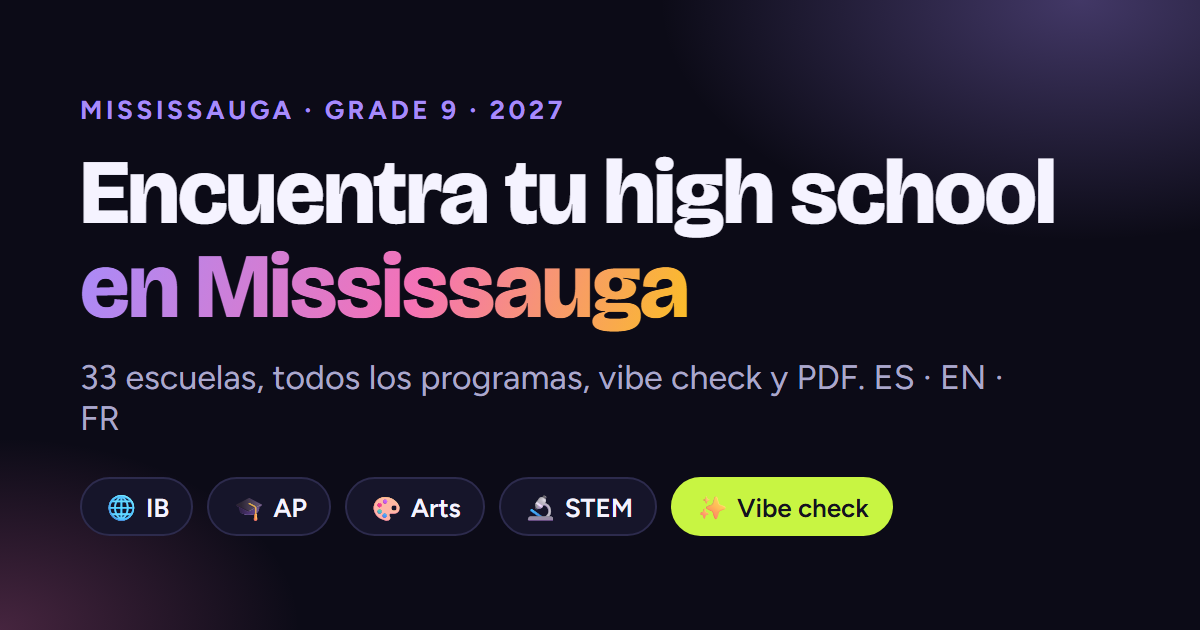
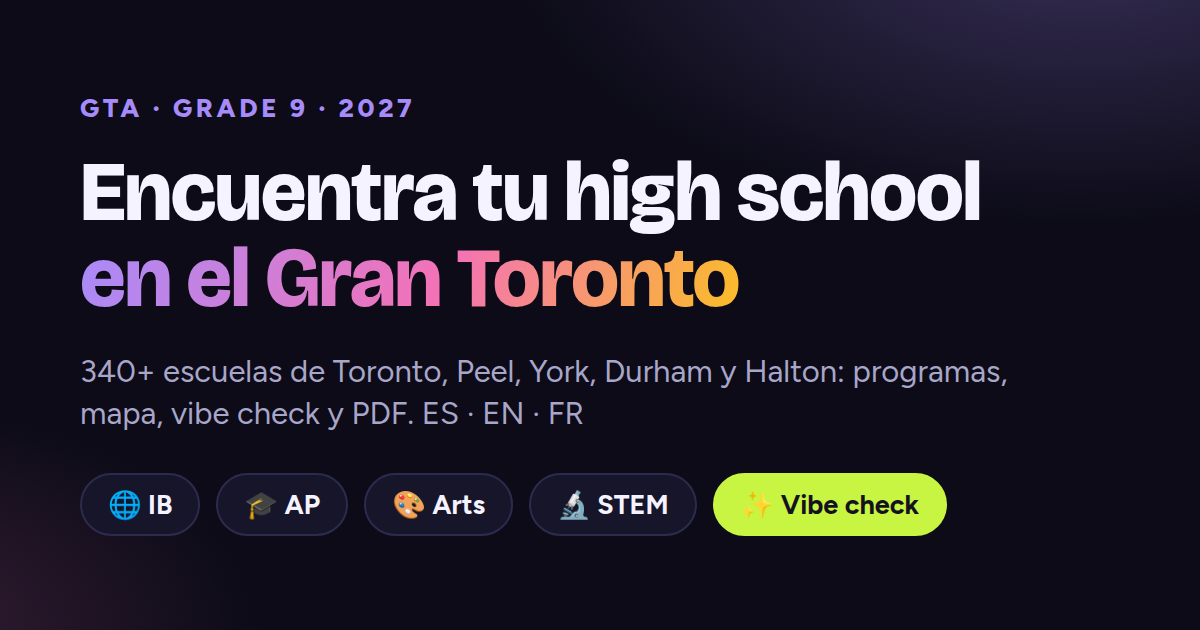
GTA social image, honest compatible crawler user agent

diff --git a/scripts/og/og.html b/scripts/og/og.html
@@ -1,0 +1,23 @@
+<!doctype html><meta charset="utf-8">
+<!-- Source of assets/og-image.png (1200x630). Render with Playwright/Chromium: see scripts/og/README.md -->
+<style>
+@font-face{font-family:Bricolage;src:url(../../assets/fonts/bricolage-latin.woff2);font-weight:200 800}
+@font-face{font-family:Figtree;src:url(../../assets/fonts/figtree-latin.woff2);font-weight:300 900}
+html,body{margin:0;width:1200px;height:630px;background:#0C0B17;font-family:Figtree,sans-serif;color:#F5F3FF;overflow:hidden}
+.bg{position:absolute;inset:0;background:radial-gradient(60rem 30rem at 90% -10%,rgba(167,139,250,.28),transparent 60%),radial-gradient(40rem 24rem at -10% 100%,rgba(244,114,182,.18),transparent 60%)}
+.w{position:absolute;left:80px;top:92px;right:80px}
+.eyebrow{font:800 26px Figtree;letter-spacing:.14em;color:#A78BFA}
+h1{font:800 84px/1.02 Bricolage;margin:26px 0 0;letter-spacing:-.02em}
+.grad{background:linear-gradient(110deg,#A78BFA,#F472B6 55%,#FBBF24);-webkit-background-clip:text;background-clip:text;color:transparent}
+p{font:400 31px/1.35 Figtree;color:#A8A6C9;margin:30px 0 0;max-width:980px}
+.chips{display:flex;gap:16px;margin-top:38px}
+.chip{border:2px solid #2D2B4D;background:#16152A;border-radius:999px;padding:13px 26px;font:700 27px Figtree}
+.cta{background:#C8F542;color:#14121F;border-color:#C8F542}
+</style>
+<div class="bg"></div>
+<div class="w">
+  <div class="eyebrow">GTA · GRADE 9 · 2027</div>
+  <h1>Encuentra tu high school<br><span class="grad">en el Gran Toronto</span></h1>
+  <p>340+ escuelas de Toronto, Peel, York, Durham y Halton: programas, mapa, vibe check y PDF. ES · EN · FR</p>
+  <div class="chips"><span class="chip">🌐 IB</span><span class="chip">🎓 AP</span><span class="chip">🎨 Arts</span><span class="chip">🔬 STEM</span><span class="chip cta">✨ Vibe check</span></div>
+</div>

diff --git a/scripts/og/README.md b/scripts/og/README.md
@@ -1,0 +1,3 @@
+# Social image
+
+`og.html` is the source of `assets/og-image.png` (1200x630). Re-render with Chromium/Playwright: open the file, screenshot the viewport at 1200x630.
